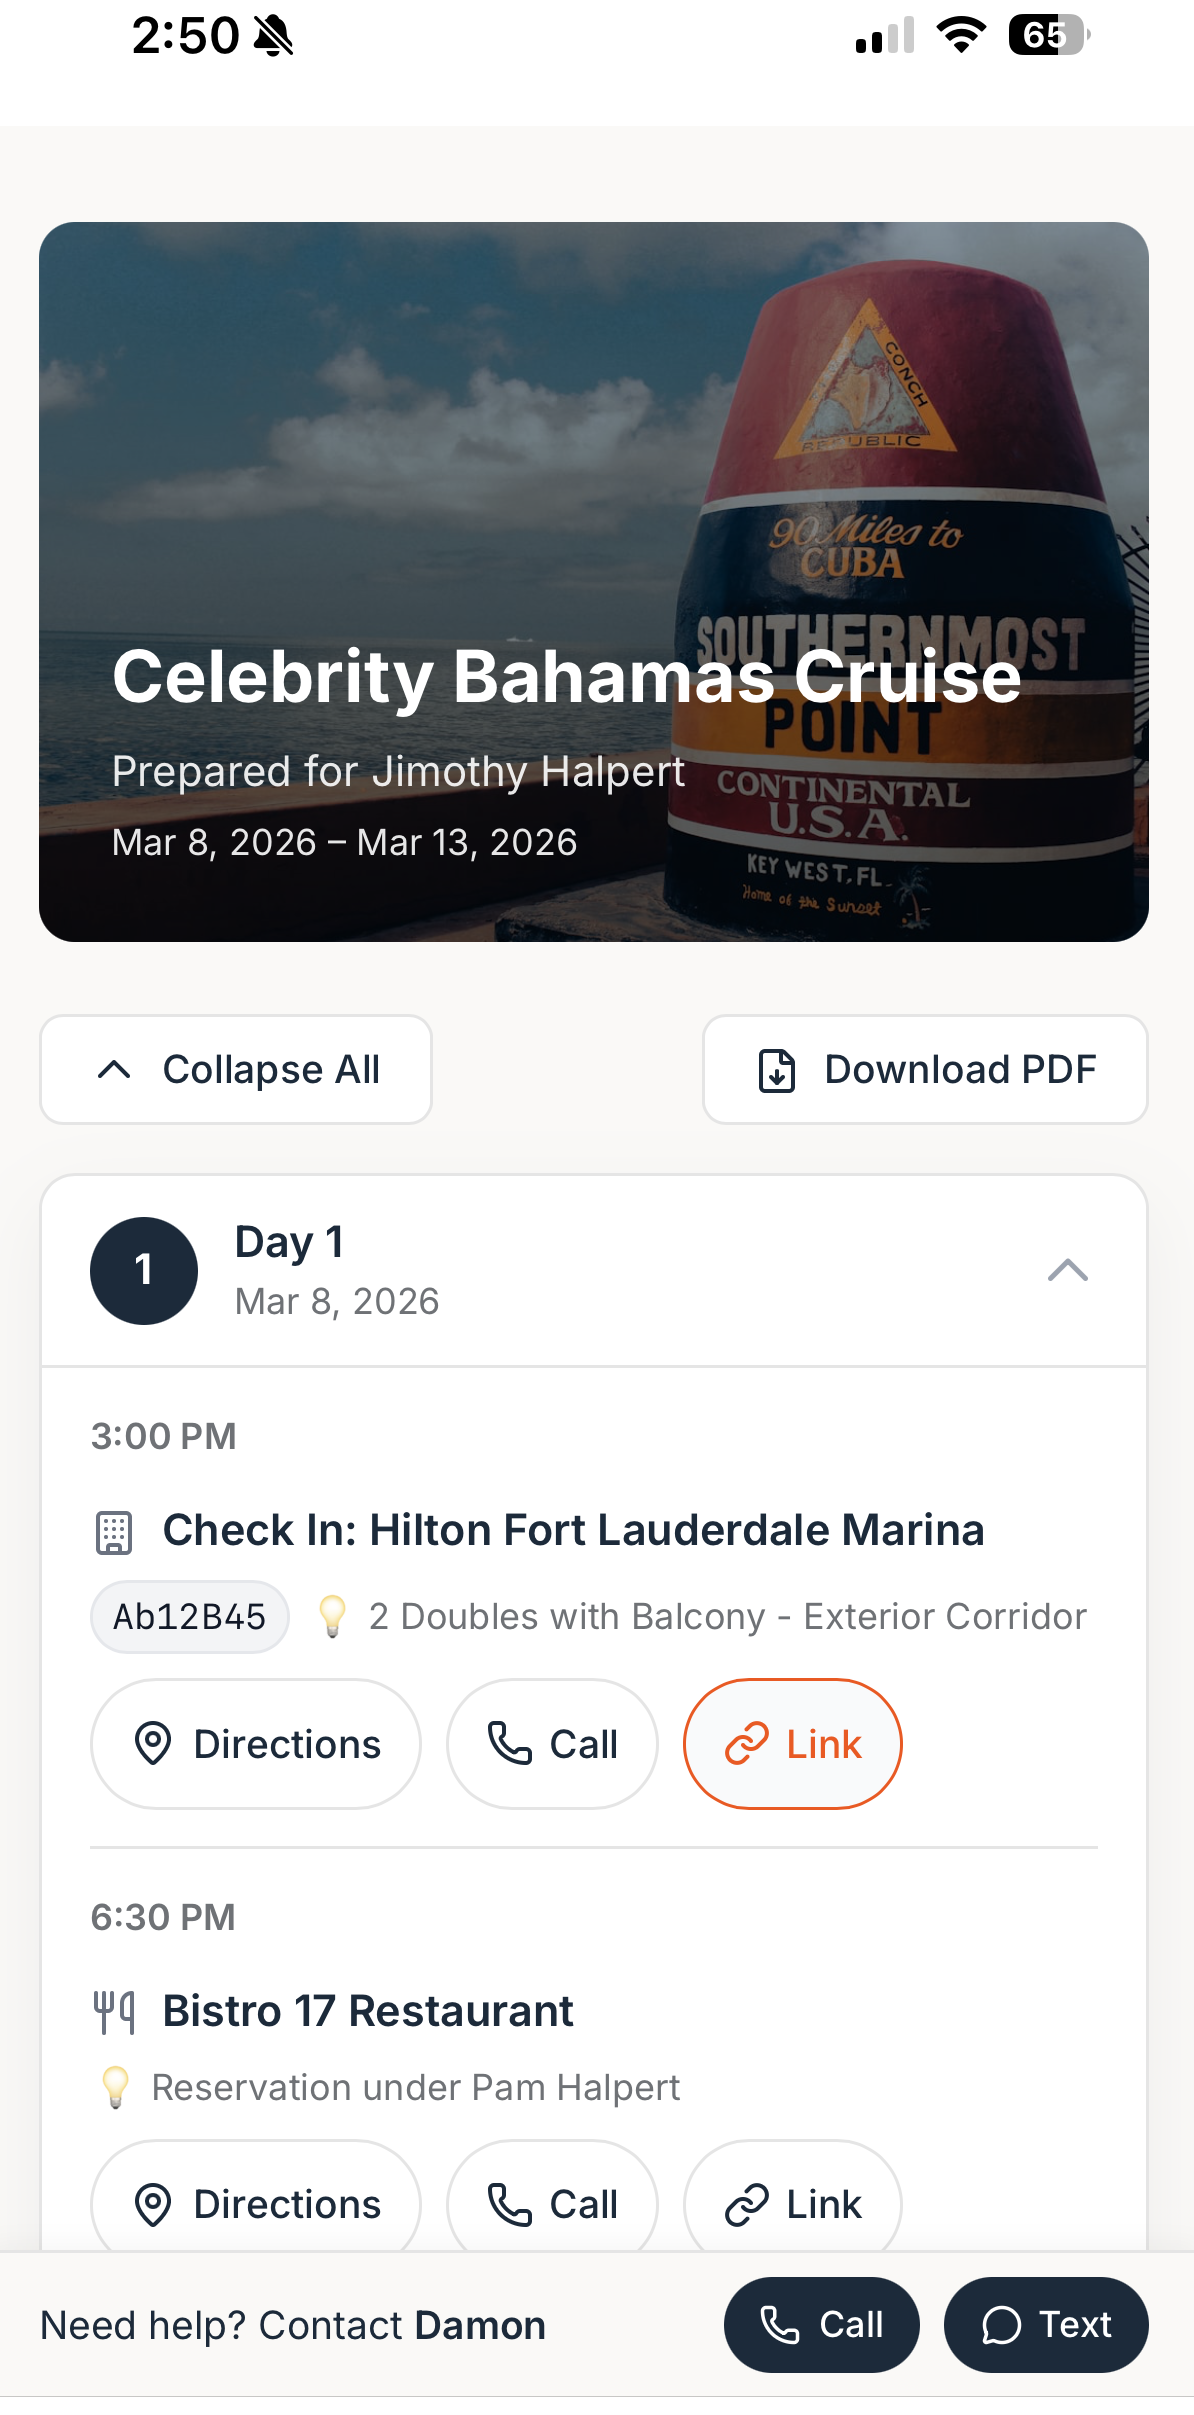
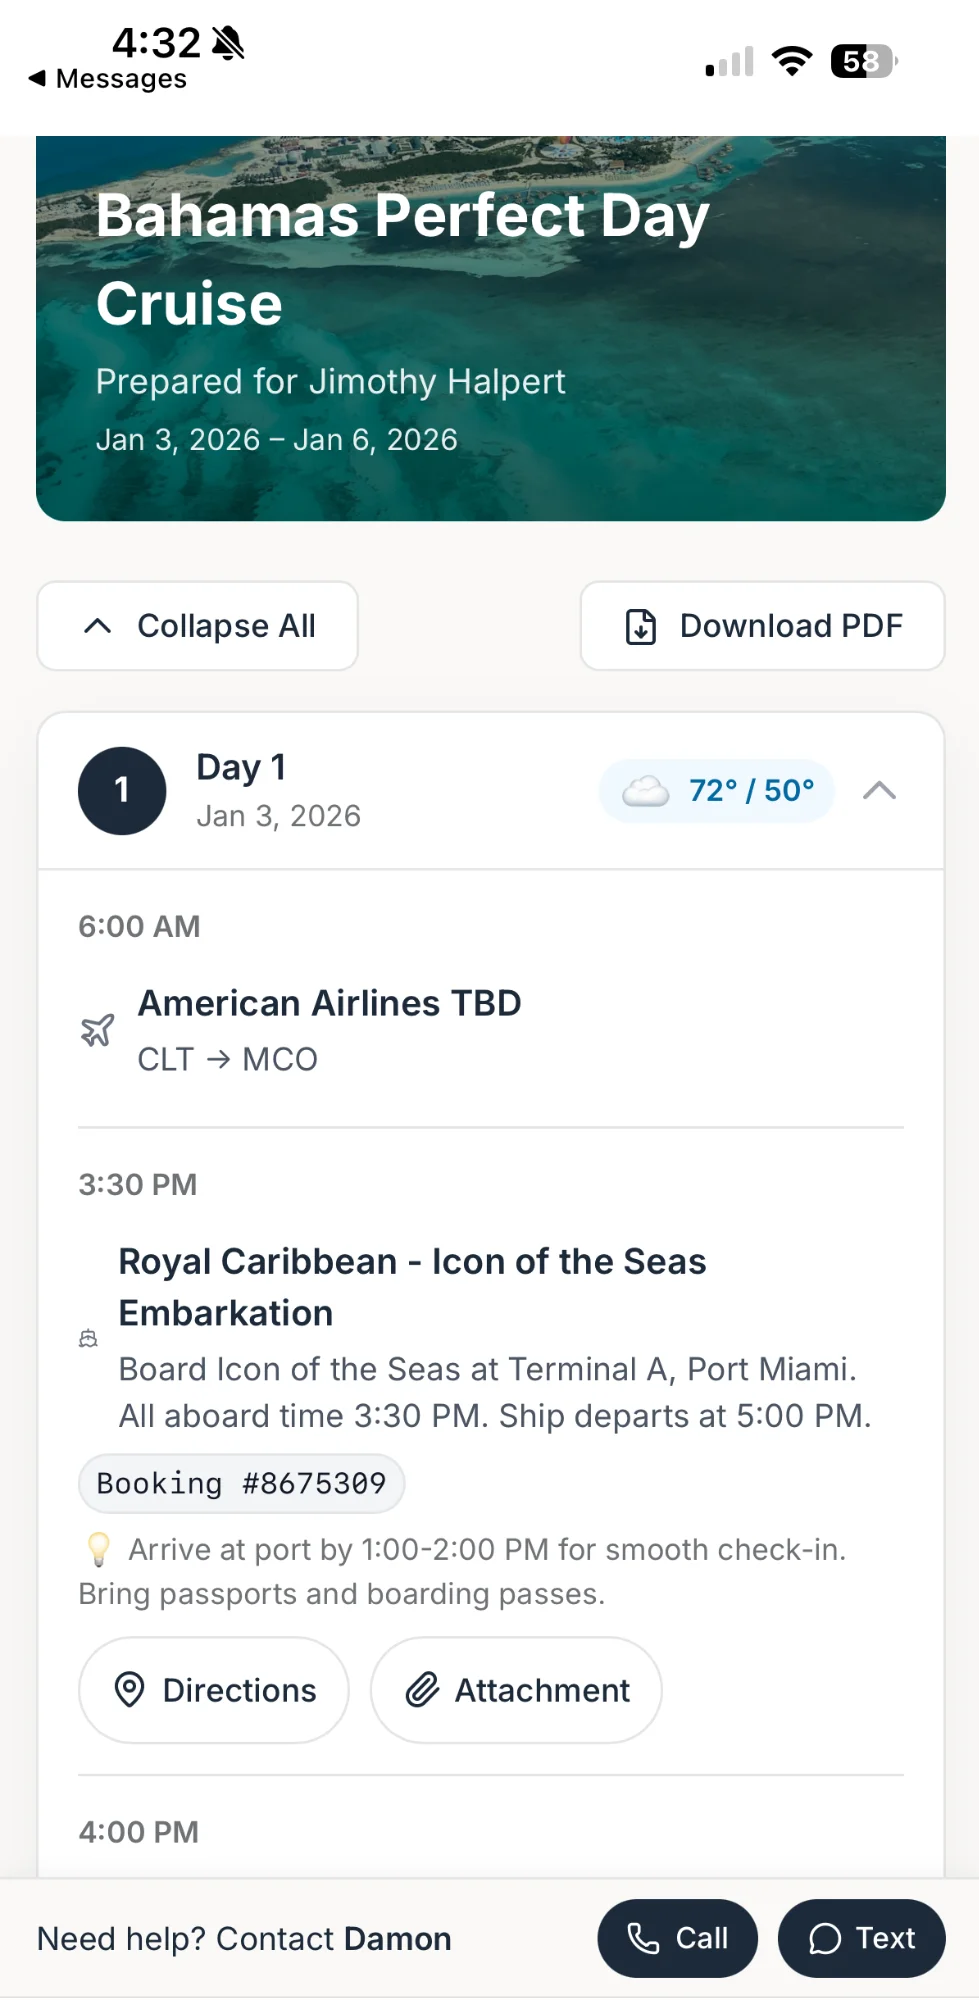
Add Forms, Payments, CRM features:update Itinerary showcase; update Coming Soon

diff --git a/index.html b/index.html
@@ -81,7 +81,7 @@
         </div>
         
         <div class="feature-card">
-          <div class="feature-icon">⚖</div>
+          <div class="feature-icon">&#9878;&#65039;</div>
           <h3>Compare</h3>
           <p class="feature-tagline">Side-by-side proposals that sell</p>
           <p>Show clients their options in a clean, professional comparison. They can vote on their favorites right from their phone. No more "which PDF was the one with the balcony cabin?"</p>
@@ -94,11 +94,32 @@
           <p>Turn any trip into a polished, day-by-day itinerary your clients will actually use. Flights, hotels, activities, confirmation numbers&#8212;all mobile-ready and shareable.</p>
         </div>
         
+        <div class="feature-card">
+          <div class="feature-icon">&#128203;</div>
+          <h3>Forms</h3>
+          <p class="feature-tagline">Client intake made easy</p>
+          <p>Collect client details, credit card authorizations, and travel preferences with custom forms. Responses flow right into your client profiles.</p>
+        </div>
+        
+        <div class="feature-card">
+          <div class="feature-icon">&#128179;</div>
+          <h3>Payments</h3>
+          <p class="feature-tagline">Get paid seamlessly</p>
+          <p>Collect advisor fees and deposits through secure Stripe integration. Professional invoices, instant notifications, no awkward money conversations.</p>
+        </div>
+        
+        <div class="feature-card">
+          <div class="feature-icon">&#128101;</div>
+          <h3>CRM</h3>
+          <p class="feature-tagline">Know your clients</p>
+          <p>Keep client details, trip history, and notes organized in one place. Built for how advisors actually work.</p>
+        </div>
+        
         <div class="feature-card feature-card-coming">
           <div class="feature-icon">&#128197;</div>
           <h3>Coming Soon</h3>
-          <p class="feature-tagline">CRM &amp; Commission Tracking</p>
-          <p>Keep your clients organized and your commissions visible. Everything in one place&#8212;because you shouldn't need five tools to run your business.</p>
+          <p class="feature-tagline">Secure Card Storage &amp; Live Flight Sync</p>
+          <p>Store client cards securely through our PCI-compliant partner. And when flights change? Itineraries update automatically&#8212;your clients always see the latest.</p>
         </div>
       </div>
     </div>
@@ -126,13 +147,13 @@
     <div class="container">
       <div class="showcase-grid">
         <div class="showcase-image showcase-image-phone">
-          <img src="/assets/itinerary-mobile.png" alt="FORGE Itinerary on mobile showing day-by-day trip details">
+          <img src="/assets/itinerary-mobile.png" alt="FORGE Itinerary on mobile showing day-by-day trip details with weather">
         </div>
         <div class="showcase-content">
           <h2>Their whole trip, in their pocket.</h2>
-          <p>Once they've picked their favorite, turn it into a beautiful day-by-day itinerary. Hotel check-ins, dinner reservations, confirmation numbers&#8212;everything organized and mobile-ready.</p>
-          <p>No more digging through emails. No more "what time is our dinner reservation?" texts. Just tap, scroll, and go.</p>
-          <p class="showcase-highlight">Directions. Phone numbers. Links. One tap away.</p>
+          <p>Drop in a screenshot, PDF, or confirmation email&#8212;AI extracts the details and builds a polished day-by-day itinerary. Weather forecasts for each day. File attachments for receipts and boarding passes. Everything your clients need, mobile-ready.</p>
+          <p>No more digging through emails. No more "what time is our flight?" texts. Just tap, scroll, and go.</p>
+          <p class="showcase-highlight">Weather. Attachments. Directions. One tap away.</p>
         </div>
       </div>
     </div>
@@ -291,7 +312,7 @@
         </div>
       </div>
       <div class="footer-bottom">
-        <p>&#169; 2025 FORGE Travel Tools. All rights reserved.</p>
+        <p>&#169; 2026 FORGE Travel Tools. All rights reserved.</p>
       </div>
     </div>
   </footer>

diff --git a/css/style.css b/css/style.css
@@ -305,8 +305,8 @@ p {
   gap: var(--space-lg);
 }
 
-/* Center the "Coming Soon" card under the middle column */
-.features-grid .feature-card:nth-child(4) {
+/* Center the "Coming Soon" card (7th) under the middle column */
+.features-grid .feature-card:nth-child(7) {
   grid-column: 2;
 }
 
@@ -1035,7 +1035,7 @@ p {
     grid-template-columns: 1fr;
   }
   
-  .features-grid .feature-card:nth-child(4) {
+  .features-grid .feature-card:nth-child(7) {
     grid-column: 1;
   }
   
